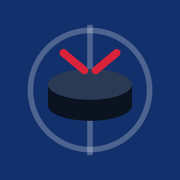
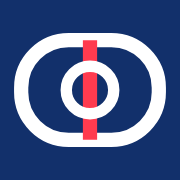
Иконка сайта и приложения — знак площадки из шапки
Favicon, иконка PWA (maskable 512) и apple-touch-icon теперь показывают тот же
знак, что рядом с «Тренажёр»: белый контур площадки, красная центральная линия,
круг вбрасывания на синем #12306b. Линии толще, чтобы знак читался в 16 px.
Фон заставки PWA — тот же синий.

diff --git a/app/vite.config.ts b/app/vite.config.ts
@@ -40,7 +40,7 @@ export default defineConfig({
         description: "Английские слова из романа: утром учим, вечером применяем.",
         lang: "ru",
         theme_color: "#12306b",
-        background_color: "#0a111d",
+        background_color: "#12306b", // заставка при запуске — тот же синий, что у иконки
         display: "standalone",
         start_url: ".",
         icons: [

diff --git a/PROJECT_BRIEF.md b/PROJECT_BRIEF.md
@@ -202,5 +202,6 @@
 - **Личные настройки — общие для всех устройств (2026-11-20):** голос озвучки, «новых слов за утро», оформление и день/ночь лежат в `settings` прогресса на сервере, у каждого пункта своя метка времени (`settingsAt`). Копии сливаются `mergeStates` (core/state.ts) — на сервере, при синхронизации и между вкладками: прогресс — «кто новее» по `upd`, настройки — по пунктам (позже изменённый пункт побеждает). Раньше голос жил только в браузере устройства, а число новых слов затиралось целиком документом с другого устройства (например, после занятия на ноутбуке). Голос из старого `localStorage` переносится один раз с самой ранней меткой. Новые личные настройки добавлять так же: поле в `Settings` + `SettingsAt` + `SETTING_KEYS`.
 - **Прогресс с нескольких устройств складывается (2026-11-20):** `mergeStates` сливает не документ целиком, а по частям: слова — по одному (побеждает версия, где отвечали больше раз: каждый ответ увеличивает `right`/`wrong`, от часов устройства не зависит; поровну — знакомое слово, затем более новая копия), дни — по полям (утро/вечер — более позднее занятие, дополнительные — все, «перечитал» — если хоть где-то), свои предложения — все с обеих копий (проверенная версия побеждает ждущую проверки). Раньше копия, отправленная позже, затирала занятие на другом устройстве целиком. Посреди занятия чужой прогресс не подмешивается — сольётся при следующей отправке. Удалений в прогрессе нет; если появятся (сброс слова и т. п.), слиянию понадобятся метки удаления.
 - **Оформление и тема день/ночь (2026-11-20):** в настройках раздел «Оформление» — три темы с мини-превью: «Классика» (прежний дизайн), «Лёд» (по умолчанию: под страницей разметка катка, карточки — жидкое стекло, разметка просвечивает и плывёт при прокрутке) и «Матч» (тот же лёд, стекло прозрачнее, за ним катаются два хоккеиста в цветах книги — свой рисунок, `lib/skaters.ts`, не обложка). Стекло — у карточек, капсулы вкладок, верхних и нижних панелей; форма прежняя (толстая кромка, «пухлые» кнопки). Стили — `src/glass.css` поверх `styles.css`, режим — `<html data-glass>` (+ `data-players` у «Матча»), логика — `lib/glass.ts`. В Chromium у капсулы вкладок линза с преломлением (SVG-фильтр), в Safari — обычное размытие. Во время занятия разметка и игроки скрыты. Тумблер «день / ночь» — в шапке главной на телефоне и в верхнем меню на десктопе (`lib/theme.ts`, `<html data-theme>`); пока не трогали — как в системе. Оформление и день/ночь — **общие личные настройки** (`settings.look`: classic/ice/match, `settings.theme`: system/light/dark), как голос: выбрал на одном устройстве — так же на всех; `system` — как в системе устройства. Применяются до первой отрисовки из кэша настроек (`main.tsx`), дальше — `App` (контекст `lib/settings.ts`: `useSettings`, `useLook`, `useTheme`). Выбор, сделанный раньше на устройстве (`hr2_look`, `hr2_theme`), переносится один раз с самой ранней меткой. Доступность: «уменьшить прозрачность» — сплошные карточки, «уменьшить движение» — игроки стоят на вбрасывании.
+- **Иконка сайта и приложения (2026-11-20):** вкладка браузера и экран «Домой» показывают тот же знак, что в шапке рядом с «Тренажёр»: белый контур площадки, красная центральная линия, белый круг вбрасывания на синем `#12306b`. `app/public/icon.svg` — favicon и иконка `any` (линии толще, круг чуть больше, чтобы знак читался в 16 px); `icon-512.png` (maskable, знак внутри безопасной зоны 80%) и `apple-touch-icon.png` (180×180, без прозрачности) отрисованы из него в Chromium. Фон заставки PWA (`background_color`) — тот же синий.
 
 **Не сделано в фазе 1:** проверка PWA и входа по passkey на настоящих iPhone/iPad (деплой сделан — VPS, см. deploy/README.md). Перенос прогресса из прототипа не нужен: пользователь в прототипе не занимался (2026-11-20), учёба начинается с нуля в новом приложении.
